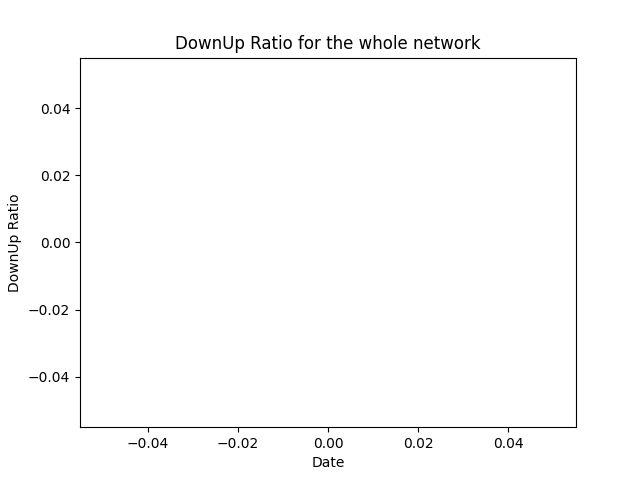
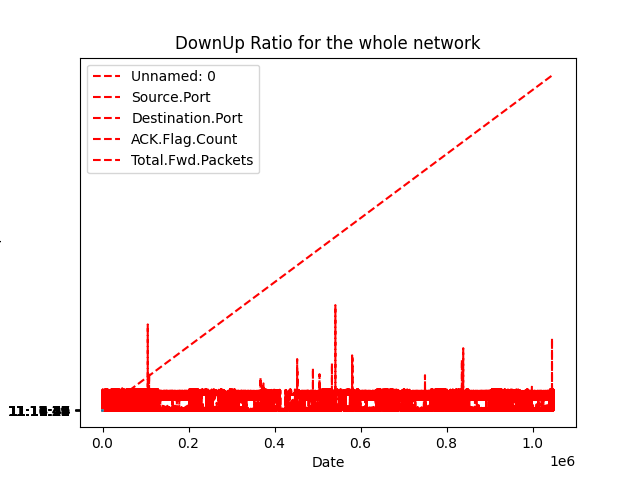
‘update’

diff --git a/web_application/Templates/Portal/Perfomance.html b/web_application/Templates/Portal/Perfomance.html
@@ -22,7 +22,7 @@
     </div>  
     <form id='form-id'  method = 'GET' >
           {% csrf_token %}                                 
-    <div class="d-flex justify-content-center  fs-5 g-5"> 
+    <div class="d-flex justify-content-start  fs-5 g-5"> 
      
                                     {% for data  in stats %}
                                     
@@ -60,10 +60,8 @@
             
           /> 
          
-        </div> 
+         </div> 
          <br>  
-         
-         <!-- <img src="{% static '../../PredictionModel/output_plot.png'%}" alt="pic"> -->
          <div class="text-center">
           <button class="w-25  mb-5 btn btn-sm bg-info">
             <a class="nav-link p-0 text-muted" href="{% url 'dashboard'%}">
@@ -72,11 +70,16 @@
           <button type="submit" class="w-25 mb-5 text-black btn btn-sm bg-success">
            Submit
           </button> 
-         </div>                            
-         
-        </div> 
+         </div>                             
+      </div>  
+      </div> 
+      
+      <div class="ms-5">
+        <p>Image for Up Down Ratio</p>
         
-      </div>   
+          <img src="{% static '../static/Images/Prediction/updowns.png'%} " class=" d-block "
+          style="height: 800px;"  width="800px"> 
+      </div>
       
            
                                       {%endif%}
@@ -86,8 +89,8 @@
      <div>
               
               <br/> 
-             </div> 
-            </div>
+            </div> 
+    </div>
   
   </form>
   </main>

diff --git a/web_application/Templates/dashboard.html b/web_application/Templates/dashboard.html
@@ -67,7 +67,7 @@
             <ul class="nav flex-column">
               <li class="nav-item ">
                 {%if user.is_superuser or users.Service == 'Admin'%}
-                <a class="nav-link " href="{% url 'Perfomance' %}"  target="_blank" rel="noopener noreferrer" >
+                <a class="nav-link " href="{% url 'Perfomance' %}"  >
                   Network Statistics
                   </a>  
                   

diff --git a/web_application/portal/views.py b/web_application/portal/views.py
@@ -36,7 +36,7 @@ def NetworkPerfomance(request):
     plt.title('DownUp Ratio for the whole network')
     plt.xlabel('Date')
     plt.ylabel('DownUp Ratio')
-    plt.savefig('PredictionModel/output_plot.png')
+    plt.savefig('static/Images/Prediction/updowns.png')
     data = plt.show()
    
     content ={}
